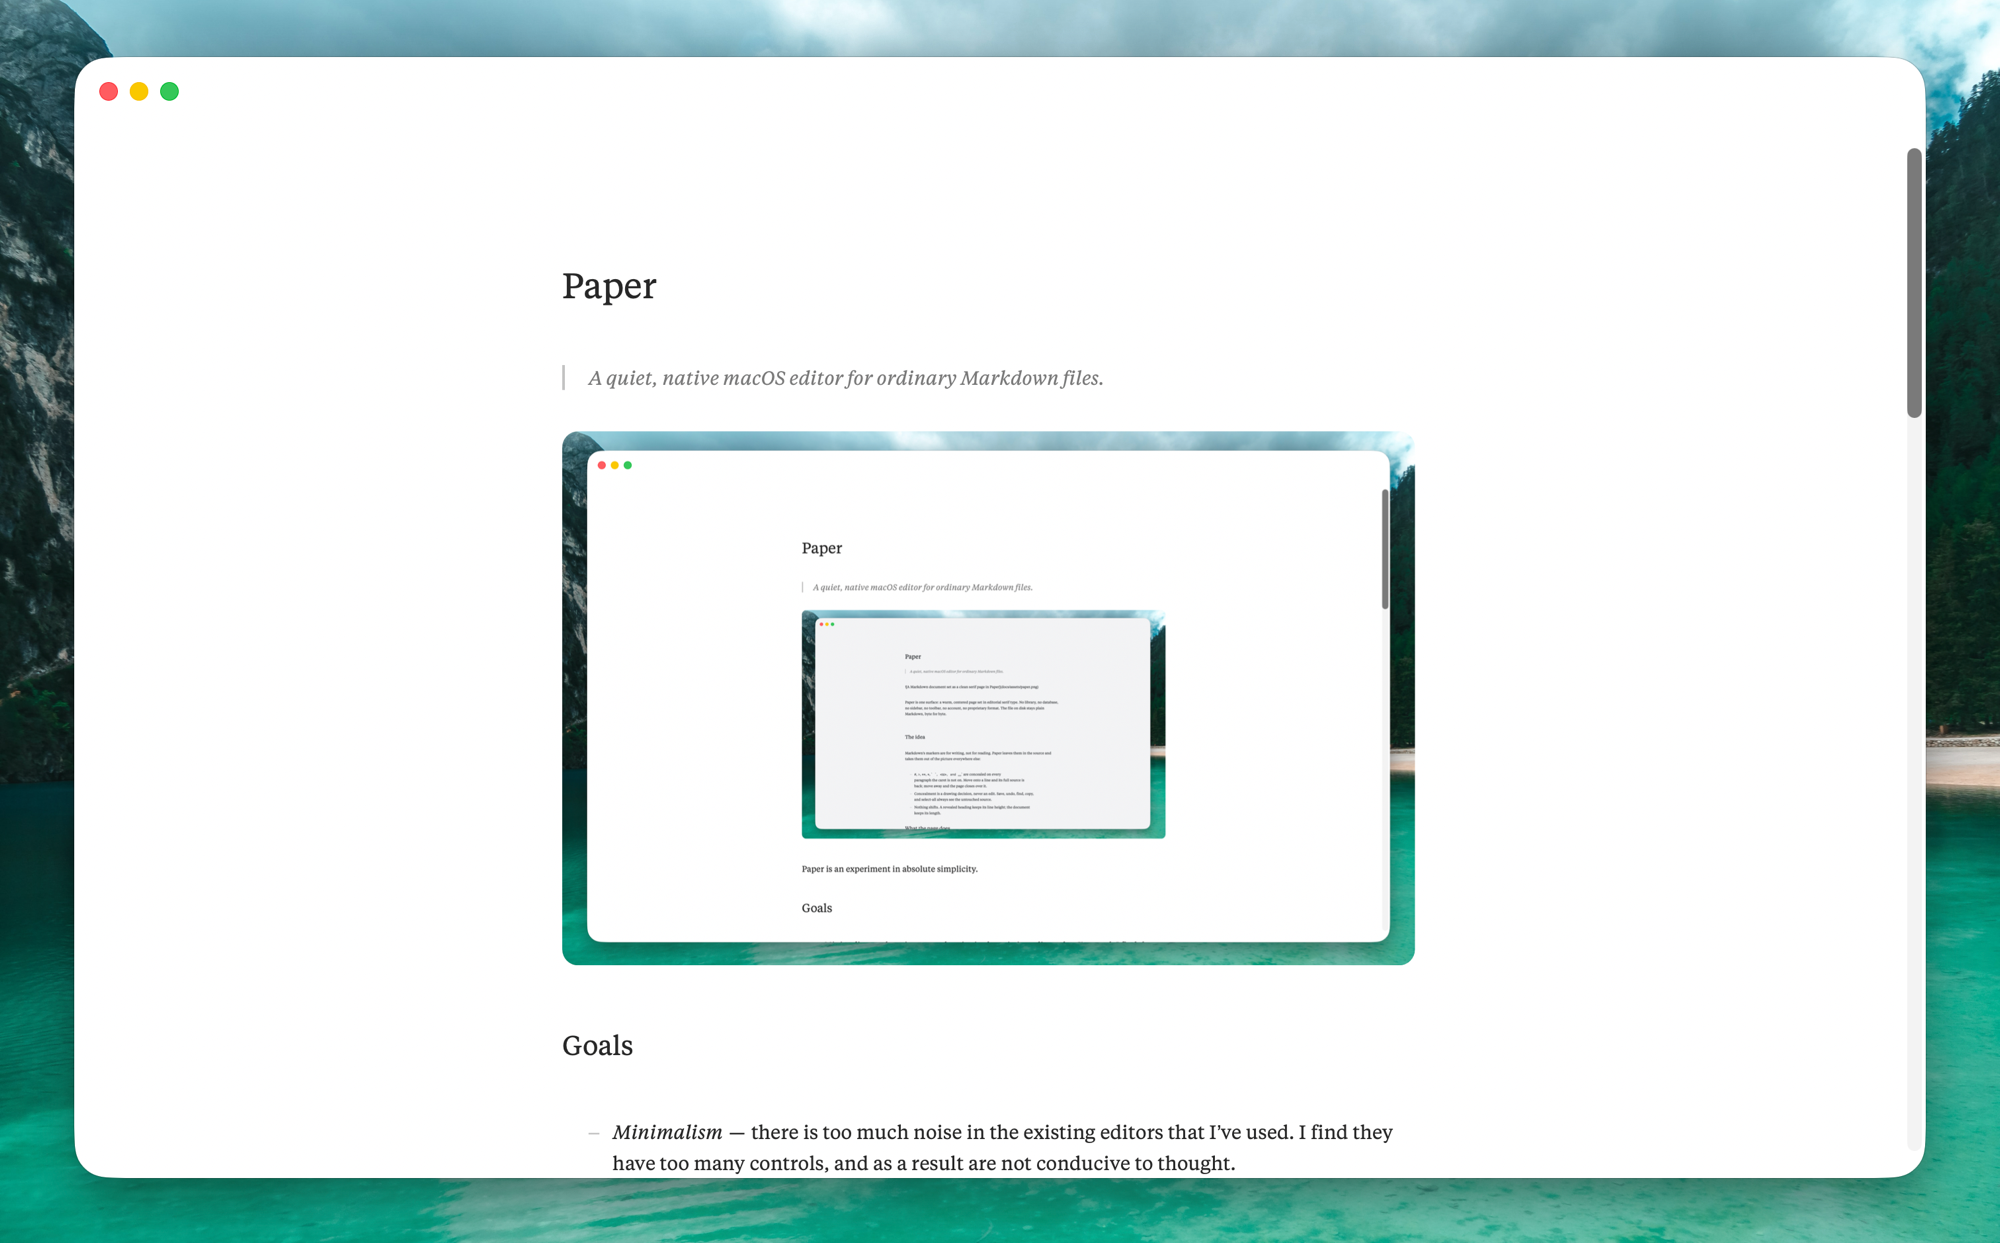
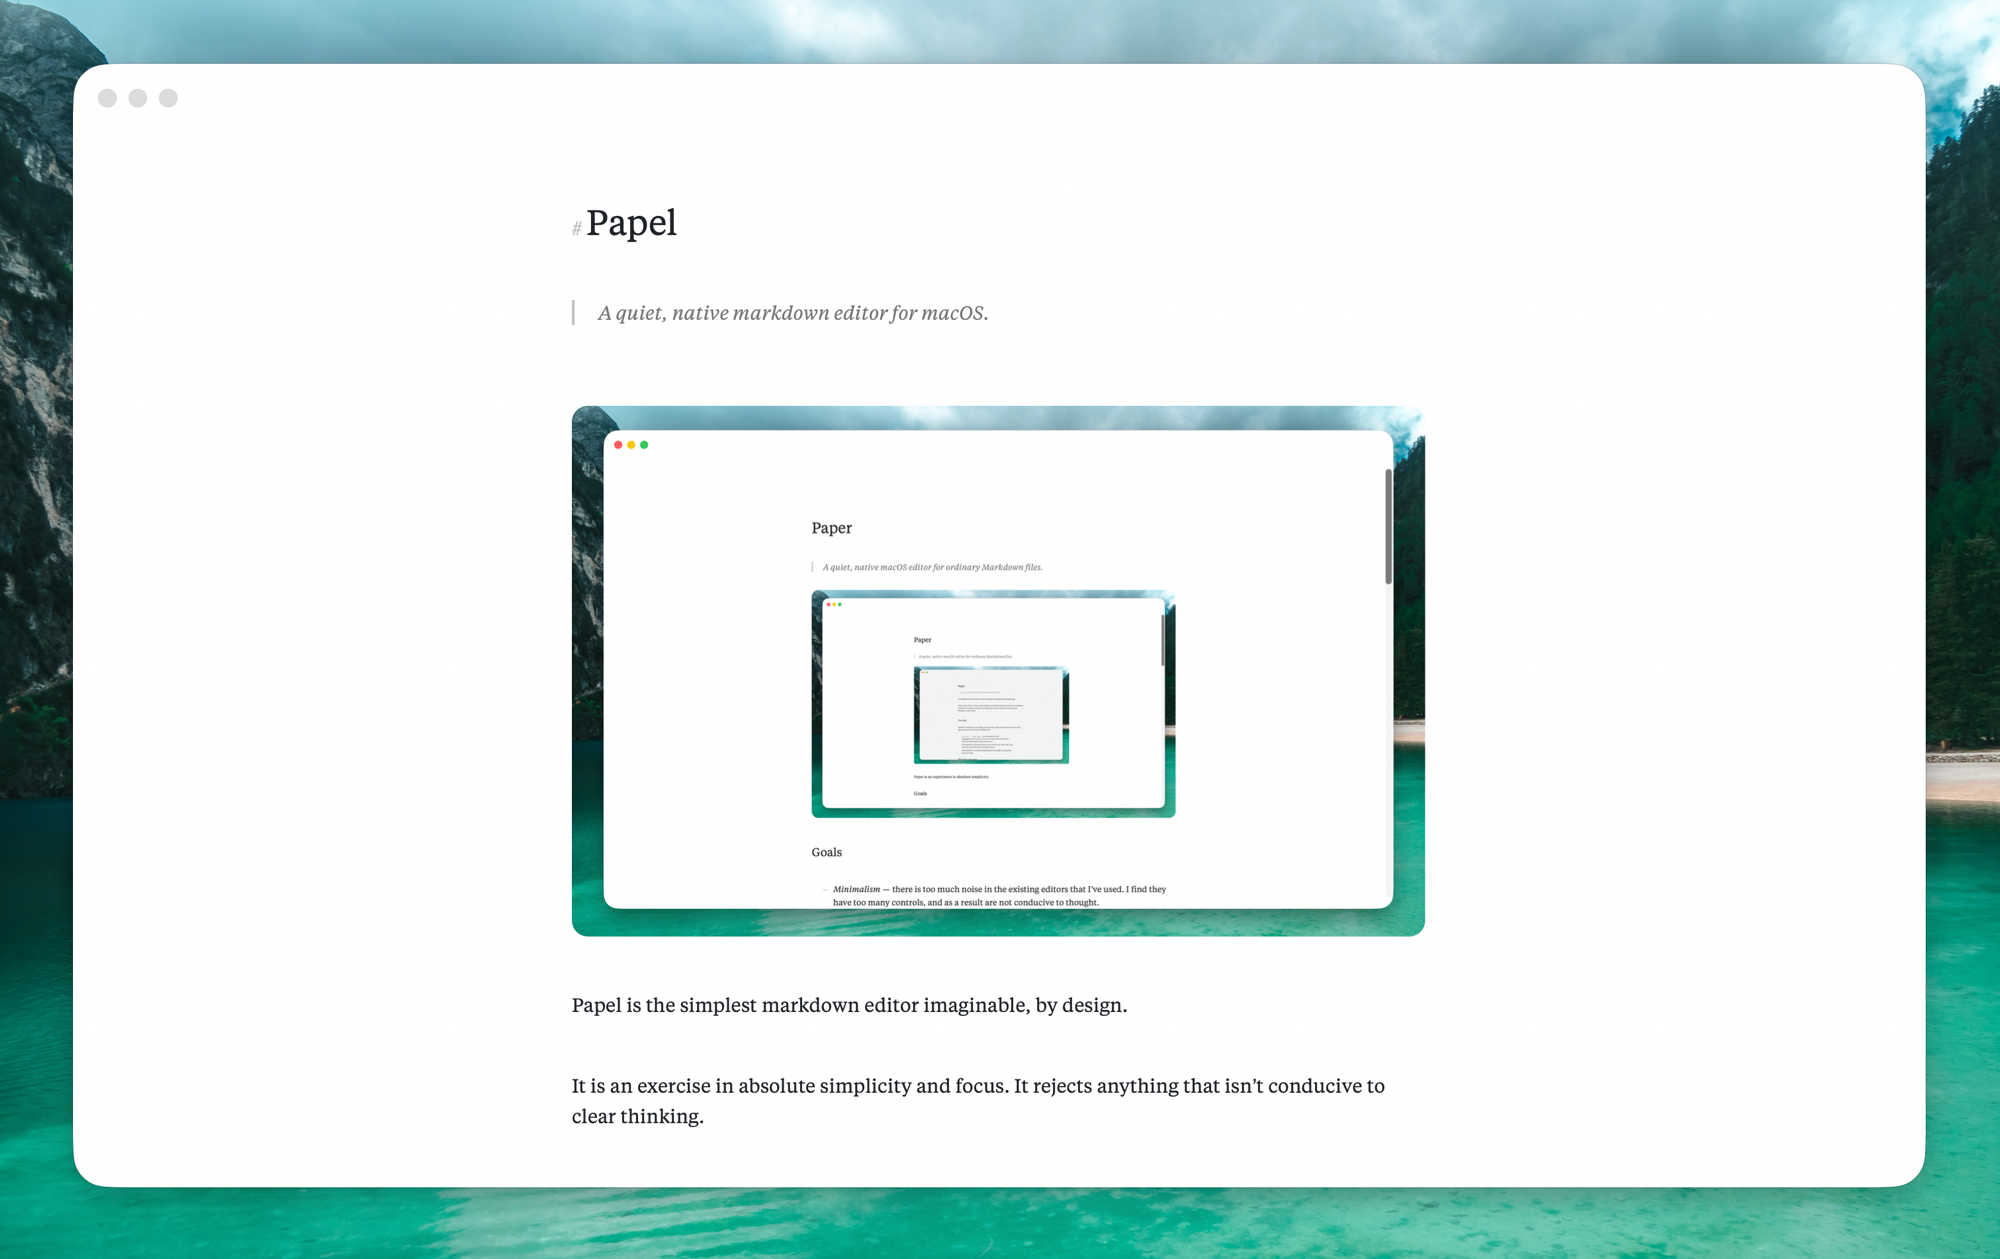
Add the enso theme and a fresh capture
enso: white under #2D2B29, and #13181C under #BFC1C3 in the dark appearance. The README and site screenshot is retaken under the new name.

diff --git a/site/index.html b/site/index.html
@@ -168,7 +168,7 @@
   <p class="buttons"><a class="pill download" href="https://github.com/humanitas-labs/paper/releases/latest/download/Papel.dmg" download><svg viewBox="0 0 24 24" aria-hidden="true"><path d="M12.152 6.896c-.948 0-2.415-1.078-3.96-1.04-2.04.027-3.91 1.183-4.961 3.014-2.117 3.675-.546 9.103 1.519 12.09 1.013 1.454 2.208 3.09 3.792 3.039 1.52-.065 2.09-.987 3.935-.987 1.831 0 2.35.987 3.96.948 1.637-.026 2.676-1.48 3.676-2.948 1.156-1.688 1.636-3.325 1.662-3.415-.039-.013-3.182-1.221-3.22-4.857-.026-3.04 2.48-4.494 2.597-4.559-1.429-2.09-3.623-2.324-4.39-2.376-2-.156-3.675 1.09-4.61 1.09zM15.53 3.83c.843-1.012 1.4-2.427 1.245-3.83-1.207.052-2.662.805-3.532 1.818-.78.896-1.454 2.338-1.273 3.714 1.338.104 2.715-.688 3.559-1.701"/></svg>Download for Mac</a><a class="pill outline" href="https://github.com/humanitas-labs/paper"><svg viewBox="0 0 24 24" aria-hidden="true"><path d="M12 .297c-6.63 0-12 5.373-12 12 0 5.303 3.438 9.8 8.205 11.385.6.113.82-.258.82-.577 0-.285-.01-1.04-.015-2.04-3.338.724-4.042-1.61-4.042-1.61C4.422 18.07 3.633 17.7 3.633 17.7c-1.087-.744.084-.729.084-.729 1.205.084 1.838 1.236 1.838 1.236 1.07 1.835 2.809 1.305 3.495.998.108-.776.417-1.305.76-1.605-2.665-.3-5.466-1.332-5.466-5.93 0-1.31.465-2.38 1.235-3.22-.135-.303-.54-1.523.105-3.176 0 0 1.005-.322 3.3 1.23.96-.267 1.98-.399 3-.405 1.02.006 2.04.138 3 .405 2.28-1.552 3.285-1.23 3.285-1.23.645 1.653.24 2.873.12 3.176.765.84 1.23 1.91 1.23 3.22 0 4.61-2.805 5.625-5.475 5.92.42.36.81 1.096.81 2.22 0 1.606-.015 2.896-.015 3.286 0 .315.21.69.825.57C20.565 22.092 24 17.592 24 12.297c0-6.627-5.373-12-12-12"/></svg>Source</a><span class="fine">macOS 15 or later · free, MIT</span></p>
   <div class="blank"></div>
 
-  <figure><img src="papel.png" alt="A Papel window showing a Markdown document: a heading, an italic quote behind a rule, an embedded screenshot, and a dashed list." width="2000" height="1243"></figure>
+  <figure><img src="papel.png" alt="A Papel window showing a Markdown document: a heading, an italic quote behind a rule, and an embedded screenshot of the app itself." width="2000" height="1259"></figure>
   <div class="blank"></div>
 
   <p>Papel is the simplest markdown editor imaginable, by design.</p>

diff --git a/PapelTests/ConfigurationTests.swift b/PapelTests/ConfigurationTests.swift
@@ -332,7 +332,7 @@ struct ConfigurationStoreTests {
 
         try "color.canvas = #F4ECD8\ncolor.ink = #5B4636\n".write(to: store.themeURL(named: "Sepia"), atomically: true, encoding: .utf8)
         store.loadThemes()
-        #expect(store.themes.map(\.name) == ["papel", "slate", "mono", "spatial", "apple", "sepia"])
+        #expect(store.themes.map(\.name) == ["papel", "enso", "slate", "mono", "spatial", "apple", "sepia"])
         #expect(store.resolvedTheme.title == "Sepia")
         #expect(store.palette.canvas == "#F4ECD8")
         #expect(store.palette.inkDark == Theme.papel.palette.inkDark)

diff --git a/Papel/Config/Configuration.swift b/Papel/Config/Configuration.swift
@@ -137,7 +137,7 @@ struct Configuration: Equatable, Sendable {
     # Corner radius in points that a block image is clipped to; 0 is square.
     image.corner.radius = 12
 
-    # Theme: papel, slate, mono, spatial, or apple, or the name of a file in
+    # Theme: papel, enso, slate, mono, spatial, or apple, or the name of a file in
     # the themes/ directory beside this one holding color.* keys like those
     # below. Each has light and dark colours; the colour overrides below
     # tune any of them. Settings can save the current colours as a theme.

diff --git a/Papel/Design/Theme.swift b/Papel/Design/Theme.swift
@@ -103,6 +103,9 @@ struct Theme: Equatable, Sendable, Identifiable {
 
     static let builtIn: [Theme] = [
         papel,
+        Theme(name: "enso", title: "Enso",
+              palette: Palette(canvas: "#FFFFFF", ink: "#2D2B29", canvasDark: "#13181C", inkDark: "#BFC1C3"),
+              isBuiltIn: true),
         Theme(name: "slate", title: "Slate",
               palette: Palette(canvas: "#F2F3F5", ink: "#1F2328", canvasDark: "#15181C", inkDark: "#D9DEE5"),
               isBuiltIn: true),

diff --git a/CHANGELOG.md b/CHANGELOG.md
@@ -3,6 +3,7 @@
 ## 0.3.1 — 2026.09.02
 
 - Rename the app from Paper to Papel: target, bundle identifier (`org.humanitas.papel`), attribute and notification keys, the `papel` command-line launcher, the DMG, and the configuration directory. The configuration directory is now `~/.config/papel/`. The site moves to papel.sh.
+- Add the `enso` theme: white under the ink #2D2B29, and #13181C under #BFC1C3 in the dark appearance.
 - Double-click a block image to open it in the system Quick Look panel, zoomed out of its band, with ← → across the document's images and Open with Preview one click away. The pointer is the arrow over an image, and a click on one leaves the caret alone so the source line stays concealed and the band stays put (#34).
 - A single click marks an image with a wash of the ink that eases in over a third of a second, as Messages does, and eases out on the next click or keystroke.
 - Text checking leaves the `(destination)` of a link or image alone: a path or URL is not prose, so it no longer collects spelling underlines. Link text and alt text are still checked.

diff --git a/README.md b/README.md
@@ -2,7 +2,7 @@
 
 > A quiet, native markdown editor for macOS.
 
-![Papel showing a Markdown document: a heading, an italic quote behind a rule, an embedded screenshot, and a dashed list](docs/assets/papel.png)
+![Papel showing a Markdown document: a heading, an italic quote behind a rule, and an embedded screenshot of the app itself](docs/assets/papel.png)
 
 Papel is the simplest markdown editor imaginable, by design.
 
